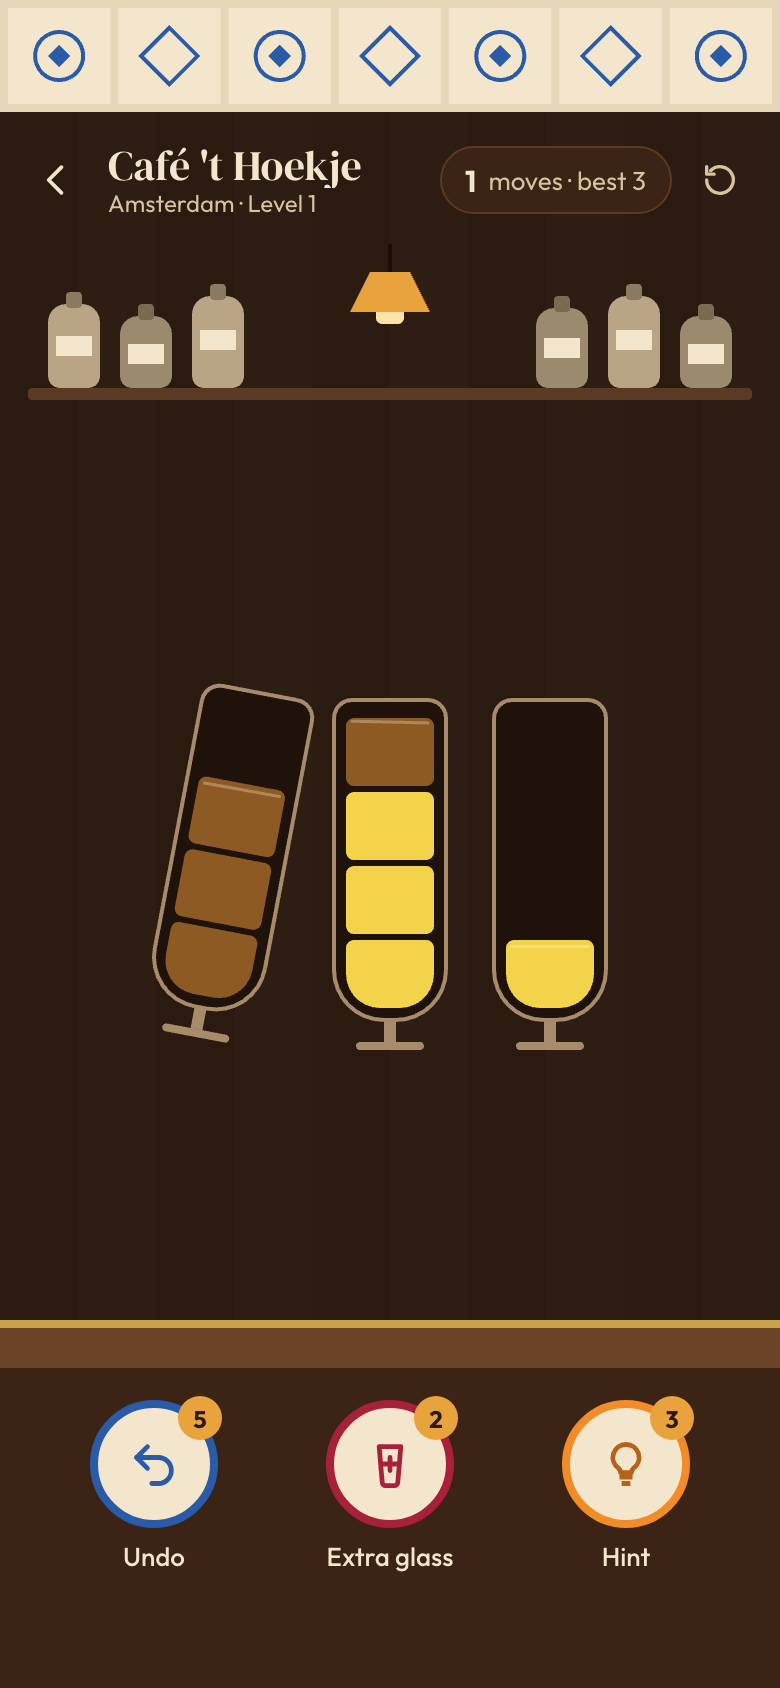
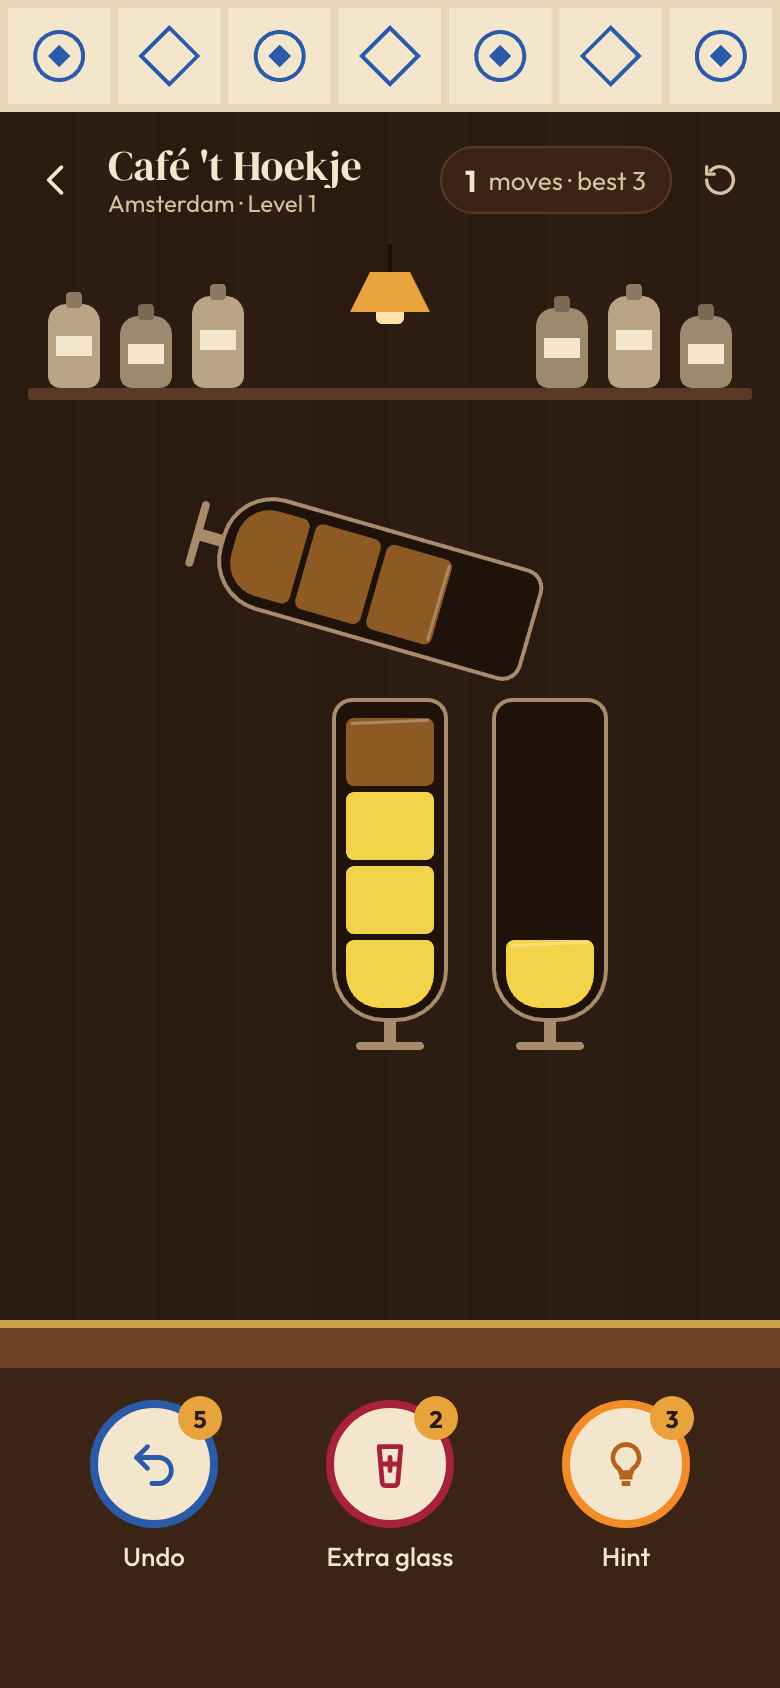
T18: add tonight's pour
A level of the day generated on the device from the local date: same
deal for everyone, seven drinks and two spare glasses, the most typical
of a few solvable seeds, in a city that rotates by date. Its best is
the best known solution, so beating it shows the badge. The first
finish of the day pays coins and is shown on the passport; Share copies
"Pour Decisions · 3 Nov · ★★★ 14 moves (best 13)".

diff --git a/apps/web/src/main.ts b/apps/web/src/main.ts
@@ -8,6 +8,7 @@ import { MapScreen } from './map/screen.js';
 import { FamilyPlaceholder } from './family/placeholder.js';
 import { PassportScreen } from './passport/screen.js';
 import { tabBar, type Tab } from './tabbar.js';
+import { dailyLevel, dailyShareText, dateKey } from './daily/generate.js';
 import { session } from './session.js';
 import { createStage } from './stage.js';
 import { progress } from './state.js';
@@ -71,6 +72,37 @@ function levelScreen(number: number): Screen {
   });
 }
 
+function dailyScreen(): Screen {
+  const date = dateKey();
+  const d = dailyLevel(date);
+  return new LevelScreen(stage, {
+    theme: d.theme,
+    number: 0,
+    barName: "Tonight's pour",
+    subtitle: `${d.theme.name} · ${new Date().toLocaleDateString('en-GB', { weekday: 'long', day: 'numeric', month: 'long' })}`,
+    bottles: d.bottles,
+    best: d.best,
+    stock: { ...progress.data.stock },
+    backHref: '#/passport',
+    nextHref: '#/complete',
+    nextLabel: 'Collect rewards',
+    onStock: (stock) => progress.setStock(stock),
+    onWin: (result) => {
+      const rewards = progress.recordDaily(date, result.stars, result.moves, d.best);
+      session.complete = {
+        theme: d.theme,
+        result,
+        difficulty: 'normal',
+        rewards,
+        kicker: "Tonight's pour cleared",
+        share: dailyShareText(date, result.stars, result.moves, d.best),
+        nextHref: '#/passport',
+        nextLabel: 'Back to the passport',
+      };
+    },
+  });
+}
+
 function route(): Screen {
   const hash = location.hash.replace(/^#\/?/, '');
   const [name, arg] = hash.split('/');
@@ -101,9 +133,15 @@ function route(): Screen {
       footer: tabBar('map', tabs),
     });
   }
+  if (name === 'daily') return dailyScreen();
   if (name === 'family') return new FamilyPlaceholder(stage, themeForLevel(progress.data.current), tabs);
-  if (name === '' || name === 'passport' || name === 'daily')
-    return new PassportScreen(stage, { progress, tabs, dailyHref: '#/daily', dailyLine: 'A new level every night' });
+  if (name === '' || name === 'passport') {
+    const today = progress.data.daily[dateKey()];
+    const dailyLine = today
+      ? `${'★'.repeat(today.stars)}${'☆'.repeat(3 - today.stars)} ${today.moves} moves tonight (best ${today.best})`
+      : 'A new level every night';
+    return new PassportScreen(stage, { progress, tabs, dailyHref: '#/daily', dailyLine });
+  }
   return levelScreen(name === 'level' ? Number(arg) : progress.data.current);
 }
 

diff --git a/apps/web/src/daily/generate.ts b/apps/web/src/daily/generate.ts
@@ -1,0 +1,52 @@
+import { deal, solveAuto, type Bottle } from '@pour/engine';
+import { drinksFor, themes, type Theme } from '@pour/themes';
+
+export interface DailyLevel {
+  date: string;
+  theme: Theme;
+  bottles: Bottle[];
+  /** Best known pours (may not be optimal: beating it earns a badge). */
+  best: number;
+  seed: string;
+}
+
+/** Local calendar date as YYYY-MM-DD. */
+export function dateKey(d: Date = new Date()): string {
+  const p = (n: number) => String(n).padStart(2, '0');
+  return `${d.getFullYear()}-${p(d.getMonth() + 1)}-${p(d.getDate())}`;
+}
+
+/** "3 Nov" for share text. */
+export function shortDate(key: string): string {
+  const [y, m, d] = key.split('-').map(Number);
+  return new Date(y!, m! - 1, d!).toLocaleDateString('en-GB', { day: 'numeric', month: 'short' });
+}
+
+const TARGET_BEST = 22;
+
+/**
+ * The level of the day, generated on the device from the date, so everyone
+ * gets the same one. Medium difficulty: seven drinks and two spare glasses,
+ * the most typical of a few solvable deals. The city rotates with the date.
+ */
+export function dailyLevel(date: string): DailyLevel {
+  const day = Math.floor(Date.UTC(...(date.split('-').map(Number) as [number, number, number])) / 86_400_000);
+  const theme = themes[day % themes.length]!;
+  const drinks = drinksFor(theme, 7).map((d) => d.id);
+  let pick: DailyLevel | null = null;
+  for (let k = 0; k < 6; k++) {
+    const seed = `daily-${date}-${k}`;
+    const bottles = deal({ drinks, empties: 2, seed });
+    const r = solveAuto(bottles, { bfsNodes: 40_000, fallbackNodes: 60_000 });
+    if (!r.solvable) continue;
+    const level = { date, theme, bottles, best: r.moves!.length, seed };
+    if (!pick || Math.abs(level.best - TARGET_BEST) < Math.abs(pick.best - TARGET_BEST)) pick = level;
+  }
+  if (!pick) throw new Error(`No daily level for ${date}`);
+  return pick;
+}
+
+/** "Pour Decisions · 3 Nov · ★★★ 14 moves (best 13)". */
+export function dailyShareText(date: string, stars: number, moves: number, best: number): string {
+  return `Pour Decisions · ${shortDate(date)} · ${'★'.repeat(stars)}${'☆'.repeat(3 - stars)} ${moves} moves (best ${best})`;
+}

diff --git a/apps/web/src/economy/save.ts b/apps/web/src/economy/save.ts
@@ -1,6 +1,6 @@
 import type { BoosterStock, Difficulty } from '@pour/engine';
 import { economy, type BoosterKind } from './config.js';
-import { rewardsFor, type Rewards } from './rewards.js';
+import { rewardsFor, winCoins, type Rewards } from './rewards.js';
 
 export const SAVE_KEY = 'pour-decisions:save';
 export const SAVE_VERSION = 1;
@@ -22,6 +22,8 @@ export interface SaveData {
   /** Highest level the player may play (the next unbeaten one). */
   current: number;
   settings: { muted: boolean };
+  /** Daily pour results by date (YYYY-MM-DD). The first finish of the day counts. */
+  daily: Record<string, { stars: number; moves: number; best: number }>;
 }
 
 /** Minimal storage interface so tests can use memory instead of localStorage. */
@@ -41,6 +43,7 @@ export function freshSave(): SaveData {
     streak: 0,
     current: 1,
     settings: { muted: false },
+    daily: {},
   };
 }
 
@@ -157,6 +160,17 @@ export class Progress {
     if (input.number >= this.data.current) this.data.current = Math.min(this.maxLevel, input.number + 1);
     this.commit();
     return rewards;
+  }
+
+  /** Records the daily pour. Only the first finish of a day pays coins. */
+  recordDaily(date: string, stars: number, moves: number, best: number): Rewards {
+    const first = !this.data.daily[date];
+    if (first) {
+      this.data.daily[date] = { stars, moves, best };
+      this.data.coins += winCoins(stars, 'normal');
+    }
+    this.commit();
+    return { coins: first ? winCoins(stars, 'normal') : 0, stars: 0, streak: this.data.streak };
   }
 
   /** A restart or leaving a level unfinished breaks the first-try streak. */

diff --git a/apps/web/src/level/screen.ts b/apps/web/src/level/screen.ts
@@ -32,6 +32,8 @@ export interface LevelScreenOptions {
   stock: BoosterStock;
   /** Where the back button goes. */
   backHref: string;
+  /** Line under the title; defaults to "City · Level N". */
+  subtitle?: string;
   /** Show the "tap this glass, then that one" pointer for the first pour. */
   guide?: boolean;
   /** Called once when the level is won, before the win overlay shows. */
@@ -494,7 +496,7 @@ export class LevelScreen {
     const overlay = this.el.querySelector<HTMLElement>('.lv-overlay')!;
     overlay.innerHTML = `
       <div class="win-card" role="dialog" aria-modal="true" aria-labelledby="win-verdict">
-        <div class="win-kicker">Level ${r.number} cleared</div>
+        <div class="win-kicker">${esc(this.opts.subtitle ? "Tonight's pour cleared" : `Level ${r.number} cleared`)}</div>
         <div class="win-stars" aria-label="${r.stars} of 3 stars">${stars}</div>
         <div class="win-verdict" id="win-verdict">${verdict}</div>
         <div class="win-moves">${r.moves} moves · best ${r.best}</div>
@@ -547,7 +549,7 @@ export class LevelScreen {
           <a class="icon-btn lv-back" href="${esc(this.opts.backHref)}" aria-label="Back to map">${icons.back(k.text)}</a>
           <div>
             <h1 class="lv-bar">${esc(this.opts.barName)}</h1>
-            <div class="lv-sub">${esc(t.name)} · Level ${this.opts.number}</div>
+            <div class="lv-sub">${esc(this.opts.subtitle ?? `${t.name} · Level ${this.opts.number}`)}</div>
           </div>
         </div>
         <div class="lv-right">

diff --git a/apps/web/e2e/daily.spec.ts b/apps/web/e2e/daily.spec.ts
@@ -1,0 +1,27 @@
+import { expect, test } from '@playwright/test';
+import { solveAuto } from '@pour/engine';
+import { dailyLevel, dateKey, shortDate } from '../src/daily/generate';
+import { open, shot } from './helpers';
+
+test("tonight's pour: everyone's level of the day, shareable", async ({ page, context }) => {
+  await context.grantPermissions(['clipboard-read', 'clipboard-write']);
+  const date = dateKey();
+  const level = dailyLevel(date);
+  await open(page, '');
+  await page.getByRole('link', { name: /Tonight's pour/ }).click();
+  await page.locator('.level-screen[data-ready="true"]').waitFor();
+  await expect(page.getByRole('heading', { name: "Tonight's pour" })).toBeVisible();
+  await shot(page, 'T18-daily');
+  const moves = solveAuto(level.bottles).moves!;
+  for (const m of moves) {
+    await page.locator(`.lv-glass[data-index="${m.from}"]`).click();
+    await page.locator(`.lv-glass[data-index="${m.to}"]`).click();
+  }
+  await page.getByRole('link', { name: 'Collect rewards' }).click();
+  await expect(page.getByText("Tonight's pour cleared")).toBeVisible();
+  await page.getByRole('button', { name: 'Share result' }).click();
+  const text = await page.evaluate(() => navigator.clipboard.readText());
+  expect(text).toBe(`Pour Decisions · ${shortDate(date)} · ★★★ ${moves.length} moves (best ${level.best})`);
+  await page.getByRole('link', { name: 'Back to the passport' }).click();
+  await expect(page.getByText(`★★★ ${moves.length} moves tonight (best ${level.best})`)).toBeVisible();
+});

diff --git a/apps/web/src/complete/screen.ts b/apps/web/src/complete/screen.ts
@@ -18,6 +18,9 @@ export interface CompleteData {
   recipe?: { recipe: Recipe; index: number; total: number };
   nextHref: string;
   nextLabel: string;
+  /** Overrides for the daily pour. */
+  kicker?: string;
+  share?: string;
 }
 
 const boosterNames = { undo: 'Streak undo', extraGlass: 'Streak glass', hint: 'Streak hint' } as const;
@@ -88,7 +91,7 @@ export class CompleteScreen {
   }
 
   private async share(): Promise<void> {
-    const text = shareText(this.data.result);
+    const text = this.data.share ?? shareText(this.data.result);
     const toast = this.el.querySelector<HTMLElement>('.toast')!;
     try {
       await navigator.clipboard.writeText(text);
@@ -116,7 +119,7 @@ export class CompleteScreen {
       `<div class="cp-card"><div class="cp-card-value">${icon}<span>${esc(value)}</span></div><div class="cp-card-label">${esc(label)}</div></div>`;
     return `
       <div class="cp-head">
-        <div class="cp-kicker">Level ${r.number} cleared</div>
+        <div class="cp-kicker">${esc(this.data.kicker ?? `Level ${r.number} cleared`)}</div>
         <div class="cp-stars" role="img" aria-label="${r.stars} of 3 stars"><span>${star(1)}</span><span>${star(2)}</span><span>${star(3)}</span></div>
         <h1 class="cp-verdict">${esc(verdictFor(r))}</h1>
         <div class="cp-sub">${esc(sub)}</div>

diff --git a/apps/web/test/daily.test.ts b/apps/web/test/daily.test.ts
@@ -1,0 +1,30 @@
+import { describe, expect, it } from 'vitest';
+import { verifySolution, solveAuto } from '@pour/engine';
+import { dailyLevel, dailyShareText, dateKey, shortDate } from '../src/daily/generate.js';
+
+describe('daily pour', () => {
+  it('is the same level for everyone on a date, and solvable', () => {
+    const a = dailyLevel('2026-11-03');
+    const b = dailyLevel('2026-11-03');
+    expect(a.bottles).toEqual(b.bottles);
+    expect(a.best).toBe(b.best);
+    const r = solveAuto(a.bottles);
+    expect(verifySolution(a.bottles, r.moves!)).toBe(true);
+  });
+
+  it('changes from day to day and stays medium', () => {
+    const days = ['2026-11-03', '2026-11-04', '2026-11-05', '2026-11-06'].map(dailyLevel);
+    expect(new Set(days.map((d) => JSON.stringify(d.bottles))).size).toBe(4);
+    expect(new Set(days.map((d) => d.theme.id)).size).toBe(4);
+    for (const d of days) {
+      expect(d.best).toBeGreaterThanOrEqual(14);
+      expect(d.best).toBeLessThanOrEqual(34);
+    }
+  });
+
+  it('formats dates and the share text', () => {
+    expect(dateKey(new Date(2026, 10, 3))).toBe('2026-11-03');
+    expect(shortDate('2026-11-03')).toBe('3 Nov');
+    expect(dailyShareText('2026-11-03', 3, 14, 13)).toBe('Pour Decisions · 3 Nov · ★★★ 14 moves (best 13)');
+  });
+});

diff --git a/TASKS.md b/TASKS.md
@@ -127,10 +127,10 @@ Depends on: T14
 - [x] GitHub Actions workflow deploying `apps/web` to GitHub Pages on pushes to main. **needs-human**: the owner enables Pages in repo settings; note this in the PR.
   Workflow added (`.github/workflows/pages.yml`). Owner: Settings → Pages → Source: GitHub Actions, then merge to main or run the workflow by hand.
 
-### T18 · Daily pour · `todo` · M
+### T18 · Daily pour · `in-review` · M
 Depends on: T06, T15
-- [ ] Level of the day generated on the device from the date as seed (same for everyone), medium difficulty.
-- [ ] Share text like "Pour Decisions · 3 Nov · ★★★ 14 moves (best 13)".
+- [x] Level of the day generated on the device from the date as seed (same for everyone), medium difficulty.
+- [x] Share text like "Pour Decisions · 3 Nov · ★★★ 14 moves (best 13)".
 
 ### T19 · Play log · `todo` · S
 Depends on: T15
